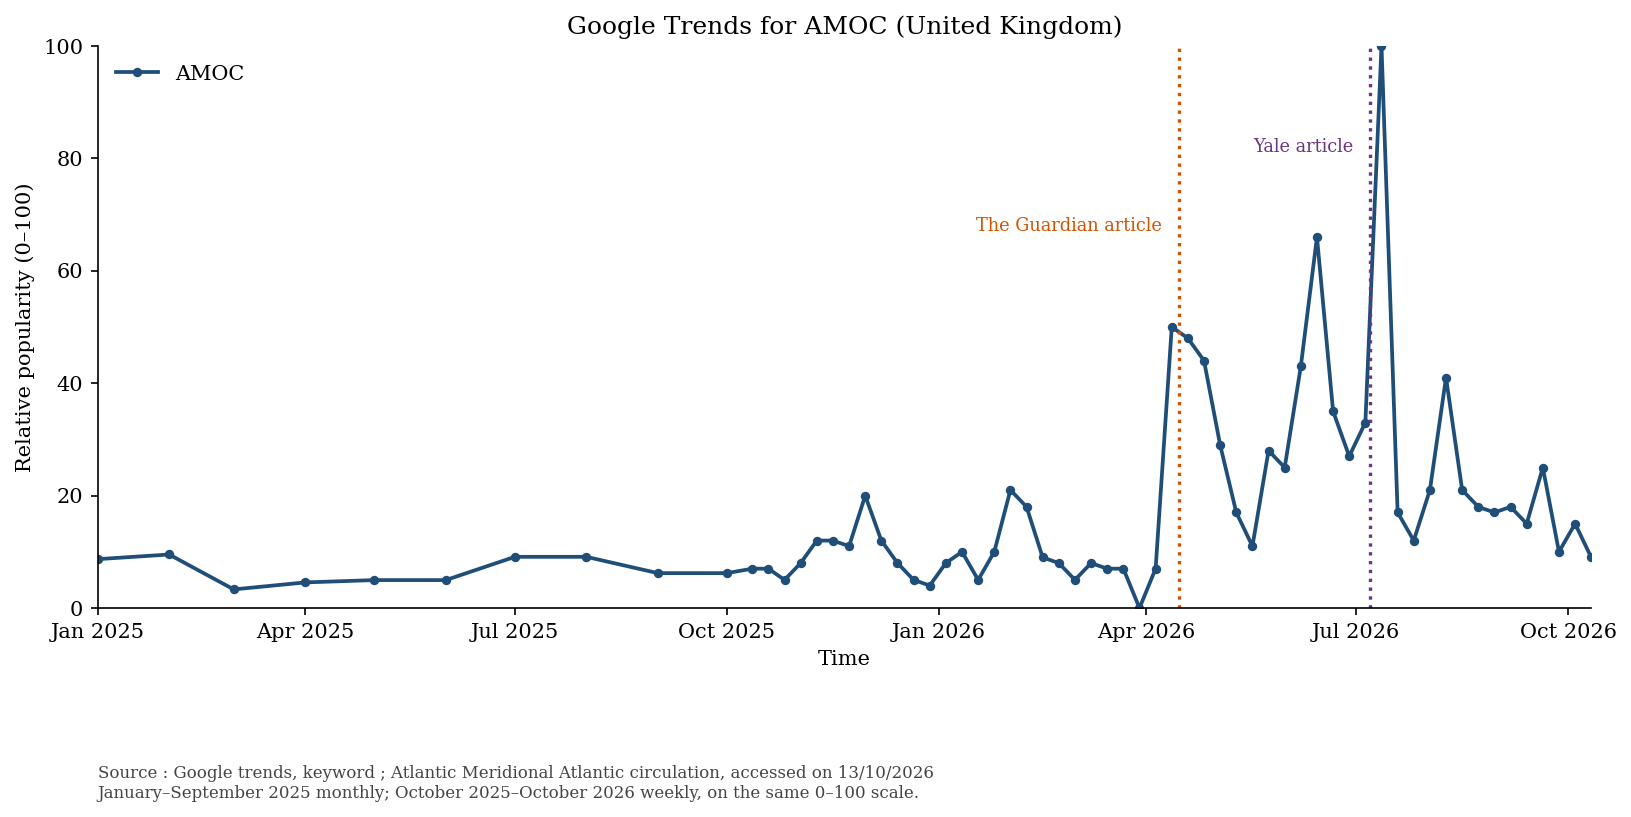
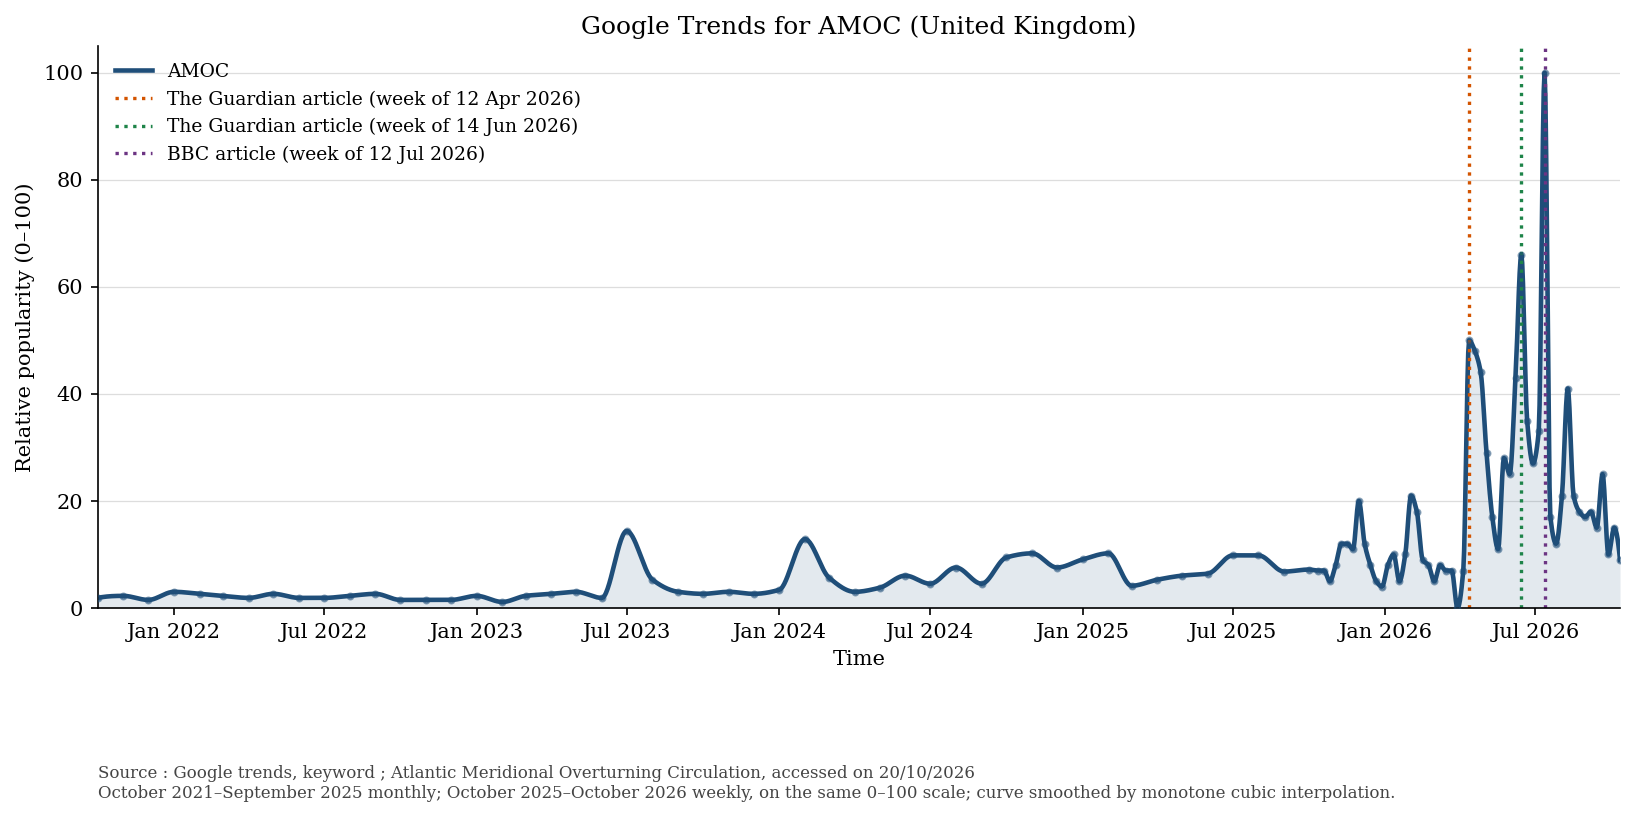
up new

diff --git a/amoc_google_trends.py b/amoc_google_trends.py
@@ -4,32 +4,45 @@ from pathlib import Path
 
 import matplotlib.dates as mdates
 import matplotlib.pyplot as plt
+import numpy as np
 import pandas as pd
+from scipy.interpolate import PchipInterpolator
 
 ROOT = Path(__file__).parent
 DATA_DIR = ROOT / "data" / "google_trends"
-MONTHLY_PATH = DATA_DIR / "time_series_GB_20211013-1505_20261013-1505.csv"
+MONTHLY_PATH = DATA_DIR / "time_series_GB_20211020-1552_20261020-1552.csv"
 WEEKLY_PATH = DATA_DIR / "time_series_GB_20251013-1534_20261013-1534.csv"
 OUTPUT_PATH = ROOT / "figures" / "amoc_google_trends.png"
 
-JULY7_DATE = pd.Timestamp("2026-07-07")
-JULY7_LABEL = "Yale article"
-APRIL15_DATE = pd.Timestamp("2026-04-15")
-APRIL15_LABEL = "The Guardian article"
-PLOT_START = pd.Timestamp("2025-01-01")
+LINE_COLOR = "#1f4e79"
+
+# (publication date, label, colour)
+ARTICLES = [
+    (pd.Timestamp("2026-04-15"), "The Guardian article", "#d35400"),
+    (pd.Timestamp("2026-06-14"), "The Guardian article", "#1e8449"),
+    (pd.Timestamp("2026-07-15"), "BBC article", "#6c3483"),
+]
+
+
+def week_start(date: pd.Timestamp) -> pd.Timestamp:
+    """Return the Sunday that starts the week containing ``date``.
+
+    Google Trends aggregates searches over whole weeks running Sunday to
+    Saturday, so an article is placed at the start of its week rather than on
+    its exact publication day.
+    """
+    return date - pd.Timedelta(days=(date.dayofweek + 1) % 7)
 
 
 def load_trends(path: Path) -> pd.DataFrame:
     frame = pd.read_csv(path)
     frame["Time"] = pd.to_datetime(frame["Time"])
-    frame = frame.rename(
-        columns={"Atlantic meridional overturning circulation": "popularity"}
-    )
-    return frame
+    frame = frame.rename(columns={frame.columns[1]: "popularity"})
+    return frame.sort_values("Time").reset_index(drop=True)
 
 
 def combine_trends(monthly: pd.DataFrame, weekly: pd.DataFrame) -> pd.DataFrame:
-    """Join the monthly series to the weekly series on one 0–100 scale.
+    """Join the 5-year monthly series to the 1-year weekly series on one 0–100 scale.
 
     Each Google Trends download is scaled so its own peak is 100. The weekly
     file's peak is a single week, higher than any monthly average, so the
@@ -61,6 +74,19 @@ def combine_trends(monthly: pd.DataFrame, weekly: pd.DataFrame) -> pd.DataFrame:
     return combined.sort_values("Time").reset_index(drop=True)
 
 
+def smooth_curve(frame: pd.DataFrame) -> tuple[pd.DatetimeIndex, np.ndarray]:
+    """Monotone cubic interpolation of the trend values onto a daily grid.
+
+    PCHIP passes through every observed point without overshooting, so the
+    curve stays within 0–100 and keeps the true peaks.
+    """
+    x = mdates.date2num(frame["Time"])
+    interpolator = PchipInterpolator(x, frame["popularity"].to_numpy(dtype=float))
+    dense_time = pd.date_range(frame["Time"].min(), frame["Time"].max(), freq="D")
+    dense_values = interpolator(mdates.date2num(dense_time))
+    return dense_time, dense_values
+
+
 def plot_trends(frame: pd.DataFrame, output_path: Path) -> None:
     plt.rcParams.update(
         {
@@ -71,74 +97,57 @@ def plot_trends(frame: pd.DataFrame, output_path: Path) -> None:
         }
     )
 
+    dense_time, dense_values = smooth_curve(frame)
+
     fig, ax = plt.subplots(figsize=(11, 5.4))
-    ax.plot(
+    ax.fill_between(dense_time, dense_values, color=LINE_COLOR, alpha=0.12, linewidth=0)
+    ax.plot(dense_time, dense_values, color=LINE_COLOR, linewidth=2.2, label="AMOC")
+    ax.scatter(
         frame["Time"],
         frame["popularity"],
-        color="#1f4e79",
-        linewidth=1.8,
-        marker="o",
-        markersize=3.5,
-        label="AMOC",
+        color=LINE_COLOR,
+        s=8,
+        alpha=0.5,
+        zorder=3,
     )
-    ax.axvline(
-        JULY7_DATE,
-        color="#6c3483",
-        linestyle=":",
-        linewidth=1.6,
-    )
-    ax.axvline(
-        APRIL15_DATE,
-        color="#d35400",
-        linestyle=":",
-        linewidth=1.6,
-    )
+    for date, label, color in ARTICLES:
+        start = week_start(date)
+        ax.axvline(
+            start,
+            color=color,
+            linestyle=":",
+            linewidth=1.6,
+            label=f"{label} (week of {start:%d %b %Y})",
+        )
 
     ax.set_xlim(frame["Time"].min(), frame["Time"].max())
-    ax.set_ylim(0, 100)
+    ax.set_ylim(0, 105)
     ax.set_xlabel("Time")
     ax.set_ylabel("Relative popularity (0–100)")
     ax.set_title("Google Trends for AMOC (United Kingdom)")
 
-    ax.xaxis.set_major_locator(mdates.MonthLocator(bymonth=(1, 4, 7, 10)))
+    ax.xaxis.set_major_locator(mdates.MonthLocator(bymonth=(1, 7)))
     ax.xaxis.set_major_formatter(mdates.DateFormatter("%b %Y"))
     ax.set_yticks(range(0, 101, 20))
+    ax.grid(axis="y", color="#dddddd", linewidth=0.6)
+    ax.set_axisbelow(True)
 
-    ax.annotate(
-        JULY7_LABEL,
-        xy=(JULY7_DATE, 82),
-        xytext=(-8, 0),
-        textcoords="offset points",
-        ha="right",
-        va="center",
-        fontsize=8.5,
-        color="#6c3483",
-    )
-    ax.annotate(
-        APRIL15_LABEL,
-        xy=(APRIL15_DATE, 68),
-        xytext=(-8, 0),
-        textcoords="offset points",
-        ha="right",
-        va="center",
-        fontsize=8.5,
-        color="#d35400",
-    )
-
-    ax.legend(frameon=False, loc="upper left")
+    ax.legend(frameon=False, loc="upper left", fontsize=9)
     fig.tight_layout()
     fig.subplots_adjust(bottom=0.24)
     ax.text(
         0.0,
         -0.28,
-        "Source : Google trends, keyword ; Atlantic Meridional Atlantic circulation, accessed on 13/10/2026\n"
-        "January–September 2025 monthly; October 2025–October 2026 weekly, on the same 0–100 scale.",
+        "Source : Google trends, keyword ; Atlantic Meridional Overturning Circulation, accessed on 20/10/2026\n"
+        "October 2021–September 2025 monthly; October 2025–October 2026 weekly, on the same 0–100 scale; "
+        "curve smoothed by monotone cubic interpolation.",
         transform=ax.transAxes,
         ha="left",
         va="top",
         fontsize=8,
         color="#444444",
     )
+    output_path.parent.mkdir(parents=True, exist_ok=True)
     fig.savefig(output_path, bbox_inches="tight")
     if plt.get_backend().lower() != "agg":
         plt.show()
@@ -148,7 +157,6 @@ def main() -> None:
     monthly = load_trends(MONTHLY_PATH)
     weekly = load_trends(WEEKLY_PATH)
     frame = combine_trends(monthly, weekly)
-    frame = frame.loc[frame["Time"] >= PLOT_START].reset_index(drop=True)
     plot_trends(frame, OUTPUT_PATH)
 
 
